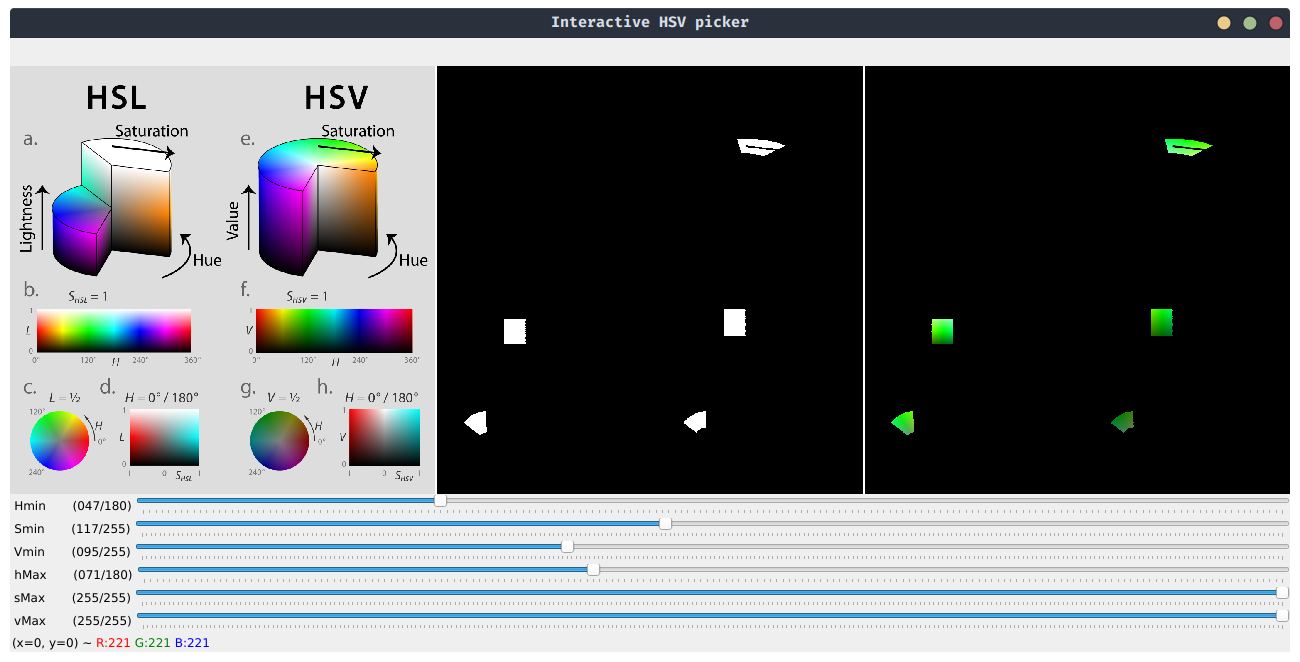
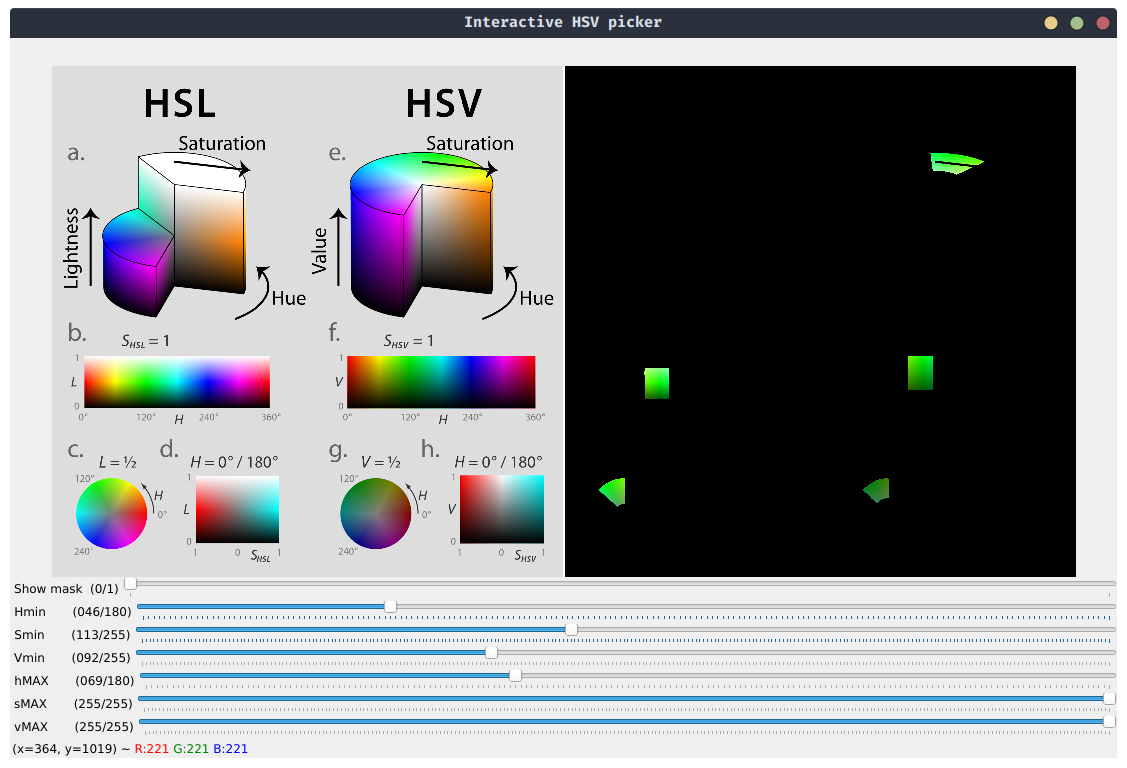
simplified usage
- show_mask is now a  trackbar
- unified image and device cli parameters

diff --git a/interactive-hsv-picker.py b/interactive-hsv-picker.py
@@ -1,48 +1,87 @@
 import cv2
 import argparse
+import os.path
 import numpy as np
+
 
 def _nothing(x):
     pass
 
+
 def _get_args():
     parser = argparse.ArgumentParser()
-    parser.add_argument('--image', type=str, help='the path of the input image, when not using webcam')
-    parser.add_argument('--device', type=int, default=0, help='the index of the device to be used (default 0)')
-    parser.add_argument('--show-mask', default=False, action='store_true', help='if specified, also display the binary mask')
+    parser.add_argument(
+        "--source",
+        type=str,
+        default="0",
+        help="the path of the input image/video, or the index of the device (default 0 for webcam)",
+    )
     return parser.parse_args()
+
 
 def _main():
     # Parse arguments
     args = _get_args()
 
-    src = args.image if args.image else args.device
-    is_image = True if args.image else False
+    supported_image_ext = [
+        ".bmp",
+        ".dib",
+        ".jpeg",
+        ".jpg",
+        ".jpe",
+        ".jp2",
+        ".png",
+        ".webp",
+        ".pbm",
+        ".pgm",
+        ".ppm",
+        ".pxm",
+        ".pnm",
+        ".pfm",
+        ".sr",
+        ".ras",
+        ".tiff",
+        ".tif",
+        ".exr",
+        ".hdr",
+        ".pic",
+    ]
+
+    if not args.source:
+        print("Source cannot be empty!")
+        raise SystemExit
+
+    is_image = False
+    if args.source.isnumeric():
+        args.source = int(args.source)
+    elif os.path.splitext(args.source)[1] in supported_image_ext:
+        is_image = True
 
     # Instantiate the capture object
-    cap = cv2.VideoCapture(src)
+    cap = cv2.VideoCapture(args.source)
     if not cap.isOpened():
-        print(f'Error while opening source {src}')
+        print(f"Error while opening source {args.source}")
         raise SystemExit
 
     # Create a window
-    window_name = 'Interactive HSV picker'
+    window_name = "Interactive HSV picker"
     cv2.namedWindow(window_name, cv2.WINDOW_NORMAL)
     cv2.resizeWindow(window_name, 1280, 720)
     cv2.moveWindow(window_name, 100, 100)
 
     # Create trackbars
-    cv2.createTrackbar('Hmin', window_name, 0, 180, _nothing)
-    cv2.createTrackbar('Smin', window_name, 0, 255, _nothing)
-    cv2.createTrackbar('Vmin', window_name, 0, 255, _nothing)
-    cv2.createTrackbar('hMax', window_name, 0, 180, _nothing)
-    cv2.createTrackbar('sMax', window_name, 0, 255, _nothing)
-    cv2.createTrackbar('vMax', window_name, 0, 255, _nothing)
+    cv2.createTrackbar("Show mask", window_name, 0, 1, _nothing)
+    cv2.createTrackbar("Hmin", window_name, 0, 180, _nothing)
+    cv2.createTrackbar("Smin", window_name, 0, 255, _nothing)
+    cv2.createTrackbar("Vmin", window_name, 0, 255, _nothing)
+    cv2.createTrackbar("hMAX", window_name, 0, 180, _nothing)
+    cv2.createTrackbar("sMAX", window_name, 0, 255, _nothing)
+    cv2.createTrackbar("vMAX", window_name, 0, 255, _nothing)
 
-    # Set default value for Max HSV trackbars
-    cv2.setTrackbarPos('hMax', window_name, 180)
-    cv2.setTrackbarPos('sMax', window_name, 255)
-    cv2.setTrackbarPos('vMax', window_name, 255)
+    # Set default value for max HSV trackbars
+    cv2.setTrackbarPos("hMAX", window_name, 180)
+    cv2.setTrackbarPos("sMAX", window_name, 255)
+    cv2.setTrackbarPos("vMAX", window_name, 255)
 
     frame = None
     while True:
@@ -56,16 +95,17 @@ def _main():
             break
 
         # Get current positions of all trackbars
-        Hmin = cv2.getTrackbarPos('Hmin', window_name)
-        Smin = cv2.getTrackbarPos('Smin', window_name)
-        Vmin = cv2.getTrackbarPos('Vmin', window_name)
-        hMax = cv2.getTrackbarPos('hMax', window_name)
-        sMax = cv2.getTrackbarPos('sMax', window_name)
-        vMax = cv2.getTrackbarPos('vMax', window_name)
+        show_mask = cv2.getTrackbarPos("Show mask", window_name)
+        Hmin = cv2.getTrackbarPos("Hmin", window_name)
+        Smin = cv2.getTrackbarPos("Smin", window_name)
+        Vmin = cv2.getTrackbarPos("Vmin", window_name)
+        hMAX = cv2.getTrackbarPos("hMAX", window_name)
+        sMAX = cv2.getTrackbarPos("sMAX", window_name)
+        vMAX = cv2.getTrackbarPos("vMAX", window_name)
 
         # Set minimum and maximum HSV values to display
         lower = (Hmin, Smin, Vmin)
-        upper = (hMax, sMax, vMax)
+        upper = (hMAX, sMAX, vMAX)
 
         # Convert to HSV colorspace and perform thresholding
         hsv = cv2.cvtColor(frame, cv2.COLOR_BGR2HSV)
@@ -73,9 +113,9 @@ def _main():
         result = cv2.bitwise_and(frame, frame, mask=mask)
 
         # Concatenate the input and output frames
-        margin = np.ones((frame.shape[0], 5, 3), dtype = "uint8")*255
+        margin = np.ones((frame.shape[0], 5, 3), dtype="uint8") * 255
 
-        if args.show_mask:
+        if show_mask:
             mask = cv2.cvtColor(mask, cv2.COLOR_GRAY2BGR)
             output = cv2.hconcat([frame, margin, mask, margin, result])
         else:
@@ -88,6 +128,7 @@ def _main():
         k = cv2.waitKey(1)
         if k == 27 or k == 113:
             break
+
 
 if __name__ == "__main__":
     _main()

diff --git a/README.md b/README.md
@@ -2,23 +2,26 @@
 
 Little Python program to interactively find the best values for your HSV filter. Nothing new.
 
-*Example: finding color green*
+*Example: finding color green*<br>
 ![example](example.png)
 
 >*All credit for the `hsv_reference.png` image goes to [Jacob Rus](https://en.wikipedia.org/wiki/User:Jacobolus), I simply found it on [this Wikipedia page](https://en.wikipedia.org/wiki/HSL_and_HSV).*
 
 ## Usage
 
-The program accepts three optional arguments:
+The program accepts only one **optional** argument:
 
-- `--image=<src_image_path>` : if specified, uses the image in `<src_image_path>` instead of opening the webcam.
-- `--device=<device_index>` : index of the capturing device (default=0 for webcam).
-- `--show-mask` : if specified, also display the binary mask produced by the HSV filter.
+- `--source=<path_or_index>` : the path of the input image/video, or the index of the device (default 0 for webcam)
+
+Once launched, you can play with the trackbars until you find an acceptable HSV range for your application.
+
+Press q or Esc to quit.
 
 ### Examples
 
 ```bash
 python3 interactive-hsv-picker.py   # uses the webcam
-python3 interactive-hsv-picker.py --image='hsv_reference.png'   # uses the specified image
-python3 interactive-hsv-picker.py --image='hsv_reference.png' --show-mask   # also display the mask
+python3 interactive-hsv-picker.py --source='<device_idx>'    # uses the specified device
+python3 interactive-hsv-picker.py --source='hsv_reference.png'   # uses the specified image
+python3 interactive-hsv-picker.py --source='<input_video>.mp4'   # uses the specified video
 ```
